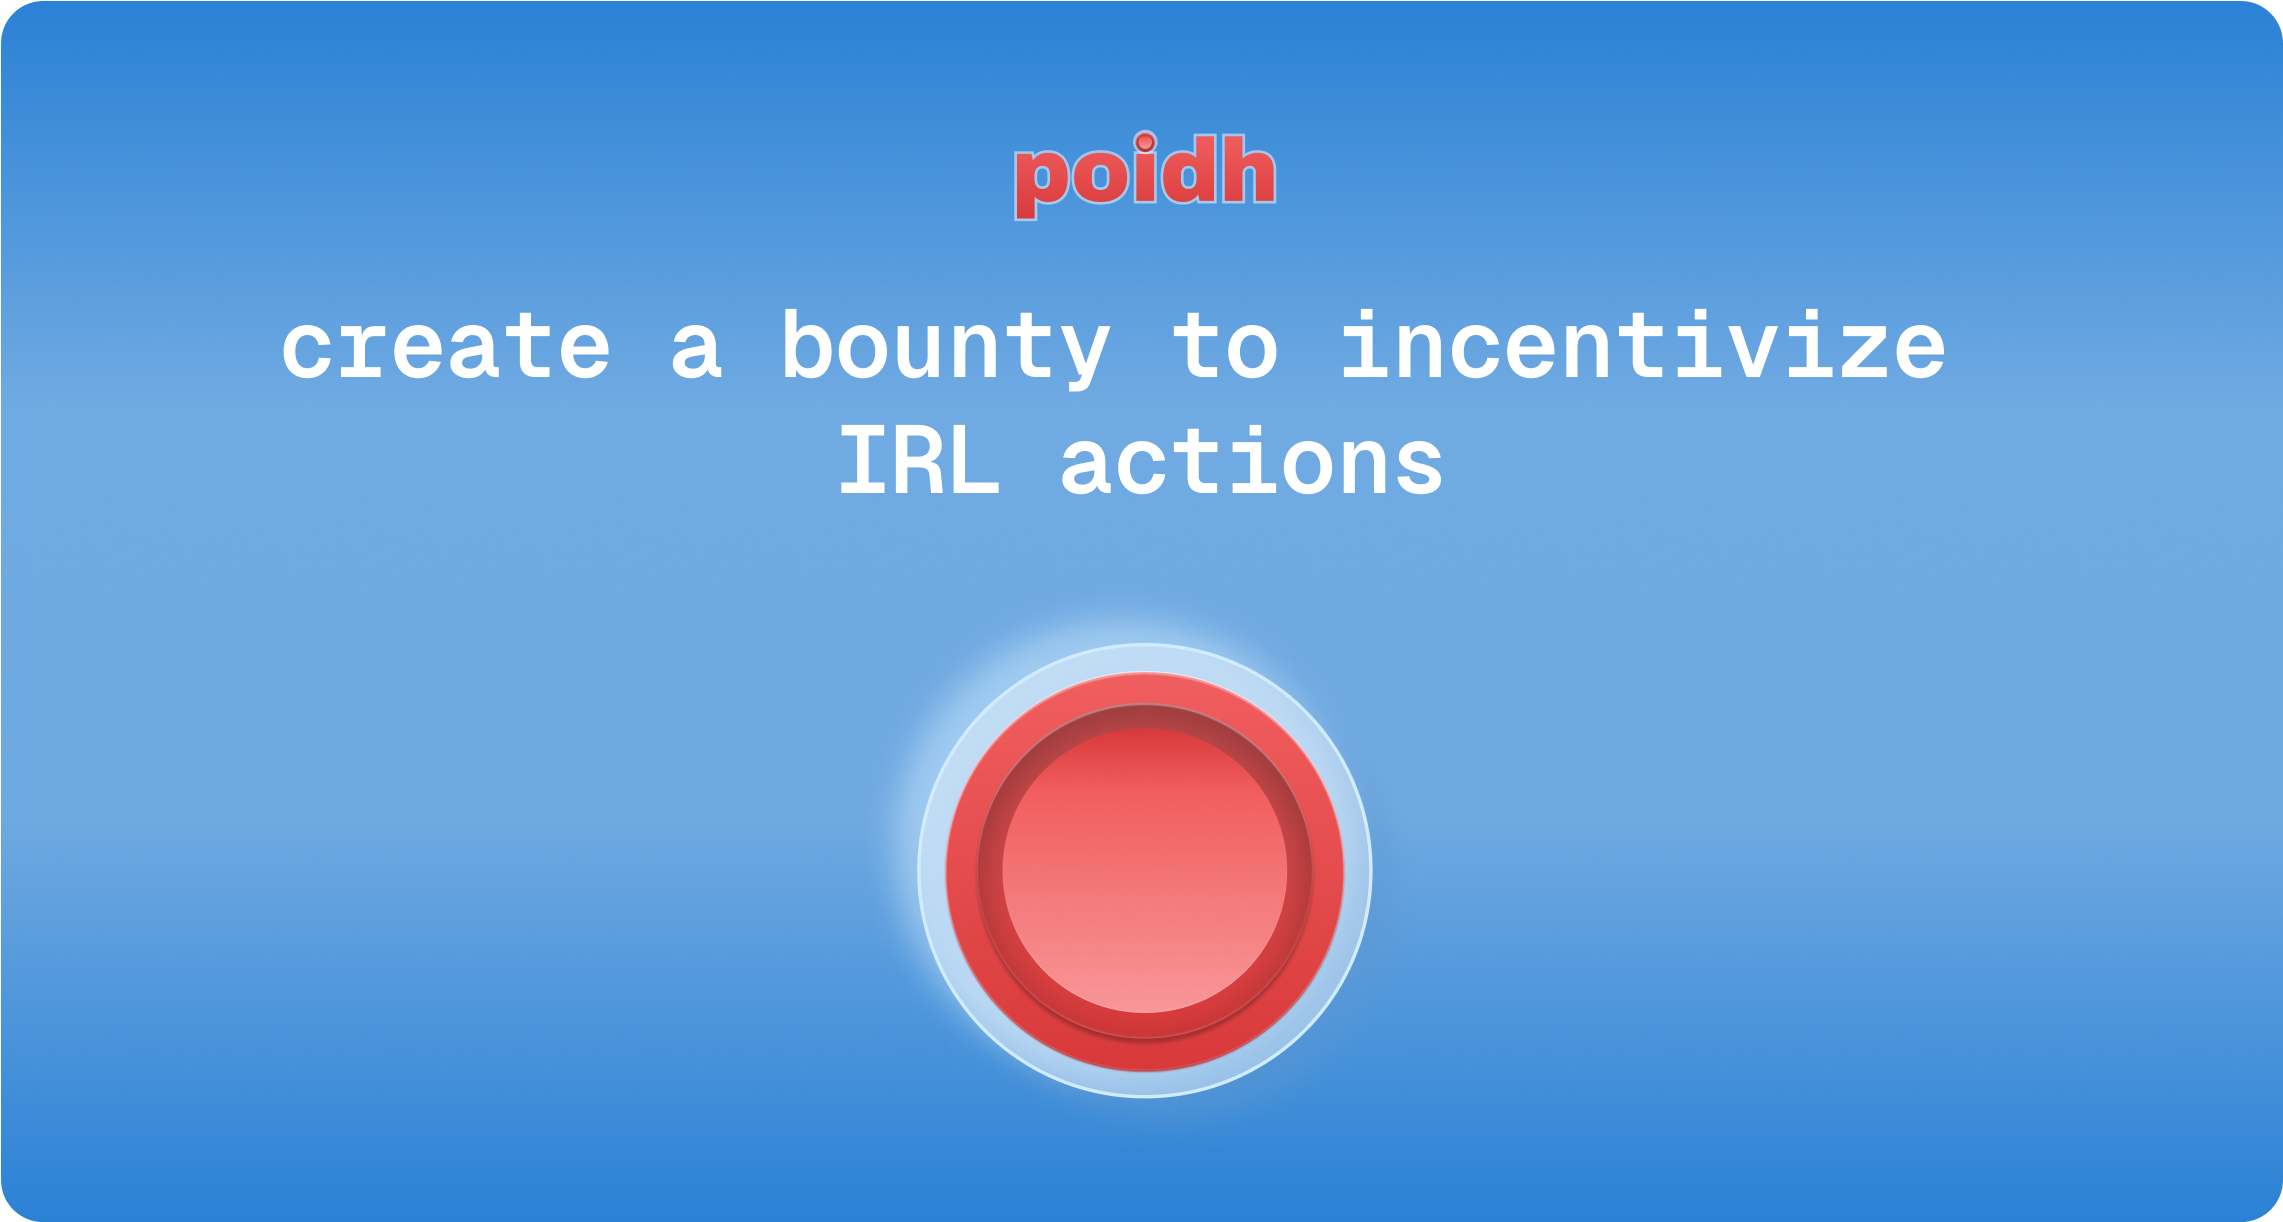
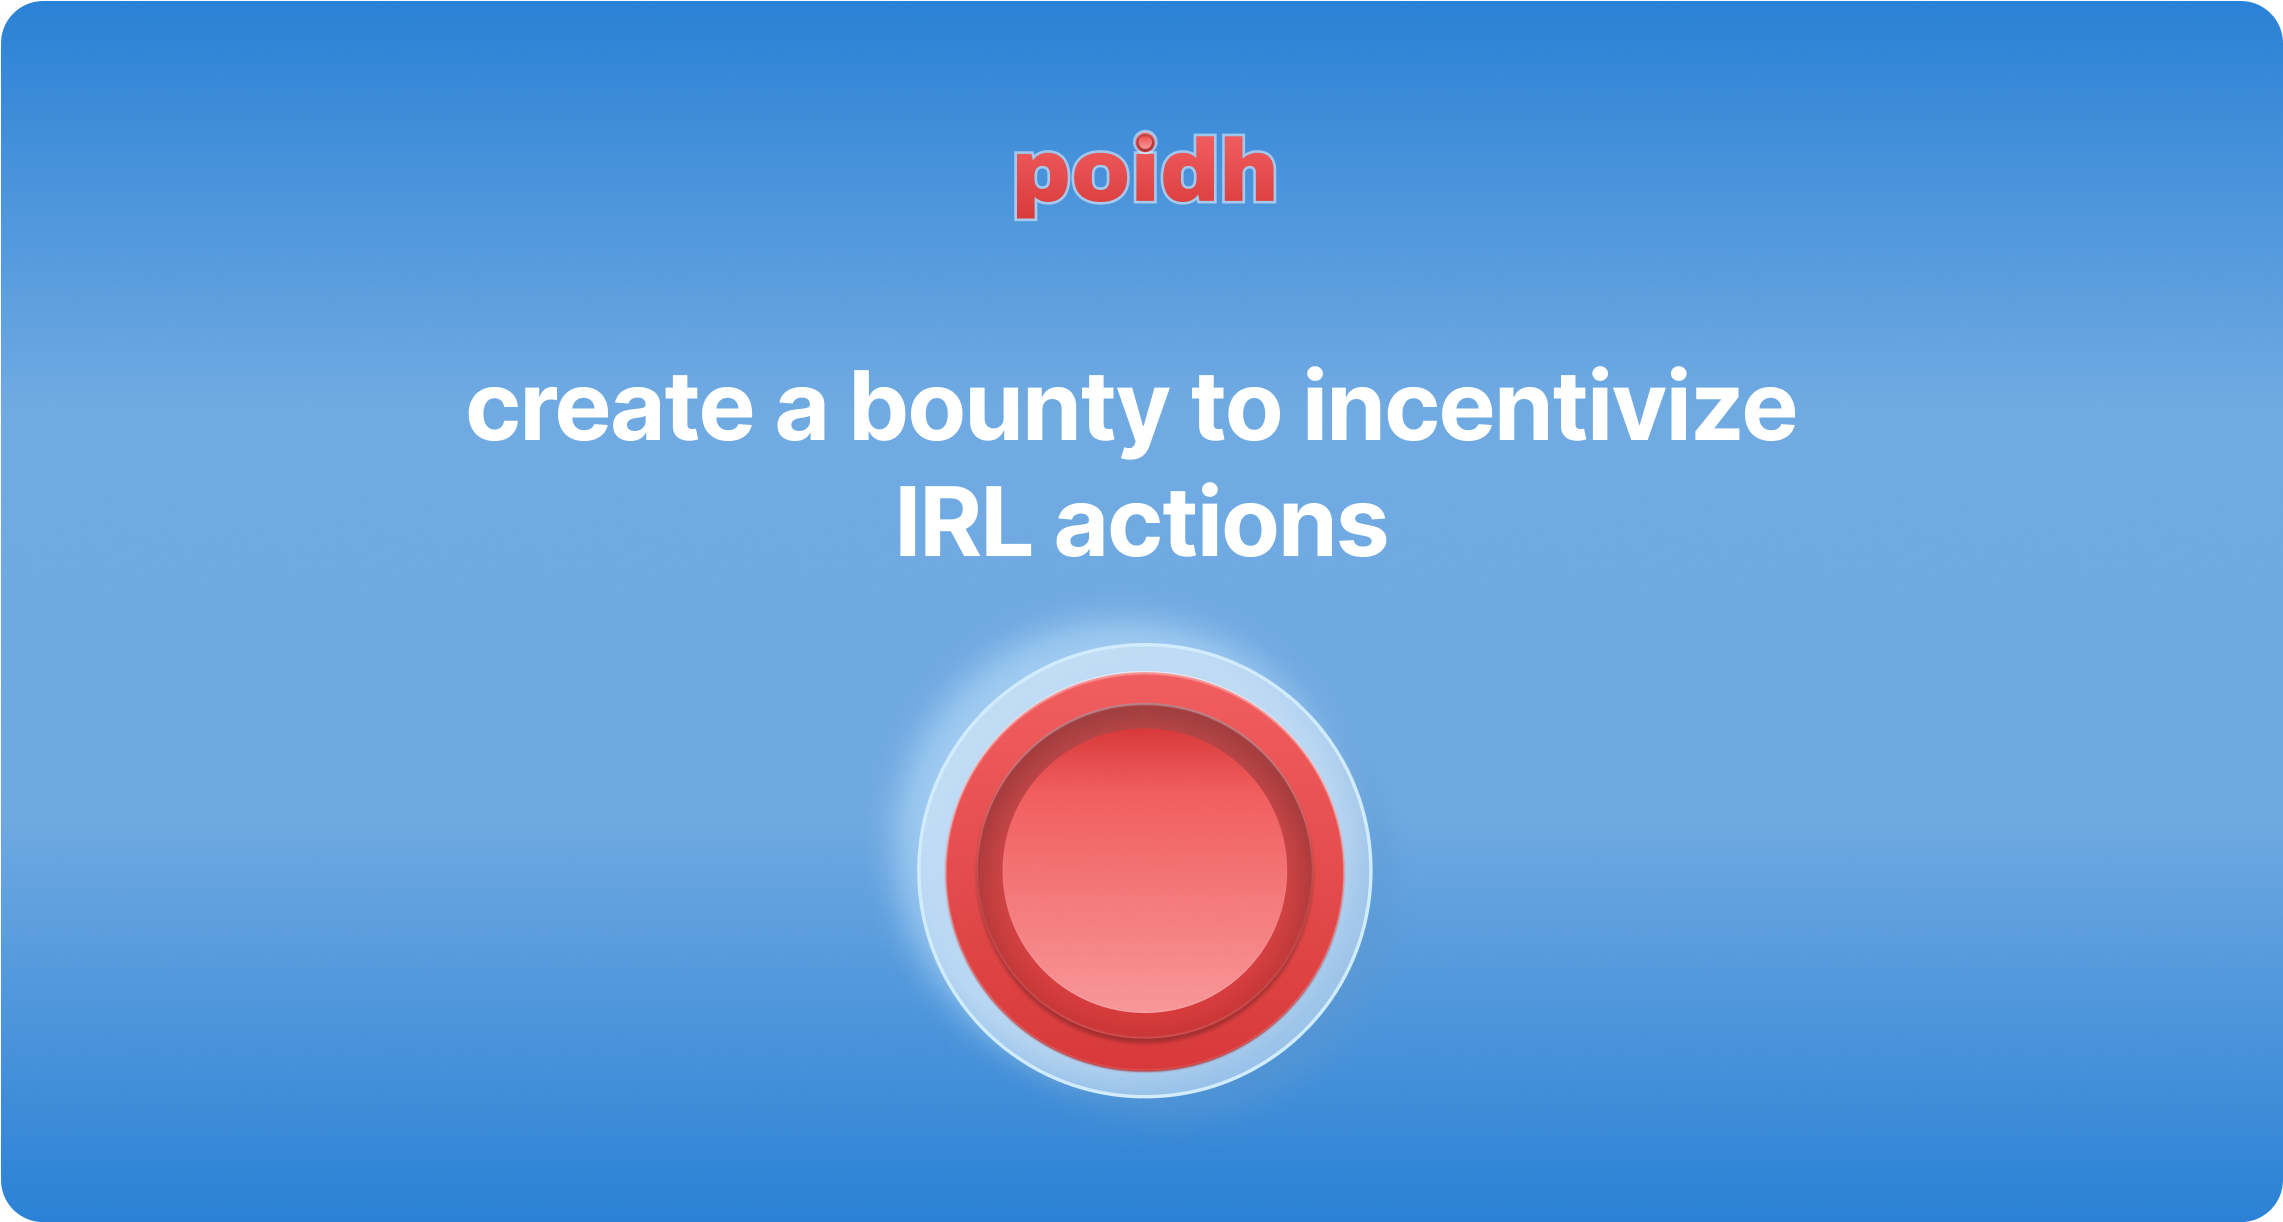
changed font to inter

Changed region(s): [[0.1244, 0.2488, 0.8708, 0.4664]]

diff --git a/app/api/[[...routes]]/route.tsx b/app/api/[[...routes]]/route.tsx
@@ -32,7 +32,7 @@ const app = new Frog<{ State: State }>({
     /* Other default options */
     fonts: [
       {
-        name: 'Jaro',
+        name: 'Inter',
         weight: 400,
         source: 'google',
       },
@@ -47,16 +47,16 @@ const app = new Frog<{ State: State }>({
 const { Heading } = createSystem({
   fonts: {
 
-    jaro: [
+    Inter: [
       {
-        name: 'Jaro',
+        name: 'Inter',
         weight: 400,
         source: 'google',
       },
     ],
     default: [
       {
-        name: 'Jaro',
+        name: 'Inter',
         weight: 400,
         source: 'google',
       },
@@ -67,7 +67,7 @@ const { Heading } = createSystem({
 const simpleMessage = <div
   style={{
     alignItems: 'center',
-    backgroundImage: `url("https://phoidh-frame.vercel.app/bg-poidh.png")`,
+    backgroundImage: `url("https://phoidh-frame.vercel.app//bg-poidh.png")`,
     backgroundSize: '100% 100%',
     display: 'flex',
     flexDirection: 'column',
@@ -97,7 +97,7 @@ const simpleMessage = <div
     backgroundSize: "contain",
     position: "absolute",
     top: 0,
-    backgroundImage: `url("https://phoidh-frame.vercel.app/logo-poidh.png")`,
+    backgroundImage: `url("https://phoidh-frame.vercel.app//logo-poidh.png")`,
   }}
   >
   </div>
@@ -106,7 +106,7 @@ const simpleMessage = <div
 app.frame('/', (c) => {
   return c.res({
     action: '/bountytitle',
-    image: "https://phoidh-frame.vercel.app/screen-1.png",
+    image: "https://phoidh-frame.vercel.app//screen-1.png",
     intents: [
       <Button value="start">Create a Bounty</Button>,
     ],
@@ -120,14 +120,14 @@ app.frame('/bountytitle', (c) => {
     image: (
       <div style={{
         display: "flex", flexDirection: 'column',
-        fontFamily: "Jaro",
+        fontFamily: "Inter",
         justifyContent: "center", alignItems: "center", height: "100%"
       }}>
         {simpleMessage}
         <div
           style={{
             color: 'white',
-            fontFamily: 'Jaro',
+            fontFamily: 'Inter',
             display: 'flex',
             fontWeight: 800,
             fontSize: 60,
@@ -138,7 +138,7 @@ app.frame('/bountytitle', (c) => {
         <div
           style={{
             color: 'white',
-            fontFamily: 'Jaro',
+            fontFamily: 'Inter',
             display: 'flex',
             fontWeight: 400,
             fontSize: 30,
@@ -153,7 +153,7 @@ app.frame('/bountytitle', (c) => {
     imageOptions: {
       fonts: [
         {
-          name: 'Jaro',
+          name: 'Inter',
           source: 'google',
           style: 'normal',
         },
@@ -187,9 +187,9 @@ app.frame('/bountydescription', (c) => {
         <div
           style={{
             color: 'white',
-            fontFamily: 'Jaro',
+            fontFamily: 'Inter',
             display: 'flex',
-            fontWeight: 400,
+            fontWeight: 800,
             fontSize: 60,
           }}
         >
@@ -198,7 +198,7 @@ app.frame('/bountydescription', (c) => {
         <div
           style={{
             color: 'white',
-            fontFamily: 'Jaro',
+            fontFamily: 'Inter',
             display: 'flex',
             fontWeight: 400,
             fontSize: 30,
@@ -238,9 +238,9 @@ app.frame('/bountyreward', (c) => {
         <div
           style={{
             color: 'white',
-            fontFamily: 'Jaro',
+            fontFamily: 'Inter',
             display: 'flex',
-            fontWeight: 400,
+            fontWeight: 800,
             fontSize: 60,
           }}
         >
@@ -249,7 +249,7 @@ app.frame('/bountyreward', (c) => {
         <div
           style={{
             color: 'white',
-            fontFamily: 'Jaro',
+            fontFamily: 'Inter',
             display: 'flex',
             fontWeight: 400,
             fontSize: 30,
@@ -289,9 +289,9 @@ app.frame('/bountytype', (c) => {
         <div
           style={{
             color: 'white',
-            fontFamily: 'Jaro',
+            fontFamily: 'Inter',
             display: 'flex',
-            fontWeight: 400,
+            fontWeight: 800,
             fontSize: 60,
           }}
         >
@@ -300,7 +300,7 @@ app.frame('/bountytype', (c) => {
         <div
           style={{
             color: 'white',
-            fontFamily: 'Jaro',
+            fontFamily: 'Inter',
             display: 'flex',
             fontWeight: 400,
             fontSize: 30,
@@ -313,7 +313,7 @@ app.frame('/bountytype', (c) => {
         <div
           style={{
             color: 'white',
-            fontFamily: 'Jaro',
+            fontFamily: 'Inter',
             display: 'flex',
             fontWeight: 400,
             fontSize: 30,
@@ -350,9 +350,9 @@ app.frame('/wallet', (c) => {
         <div
           style={{
             color: 'white',
-            fontFamily: 'Jaro',
+            fontFamily: 'Inter',
             display: 'flex',
-            fontWeight: 400,
+            fontWeight: 800,
             fontSize: 60,
           }}
         >
@@ -385,9 +385,9 @@ app.frame('/share', (c) => {
         <div
           style={{
             color: 'white',
-            fontFamily: 'Jaro',
+            fontFamily: 'Inter',
             display: 'flex',
-            fontWeight: 400,
+            fontWeight: 800,
             fontSize: 60,
           }}
         >
@@ -396,7 +396,7 @@ app.frame('/share', (c) => {
         <div
           style={{
             color: 'white',
-            fontFamily: 'Jaro',
+            fontFamily: 'Inter',
             display: 'flex',
             fontWeight: 400,
             fontSize: 30,
@@ -409,7 +409,7 @@ app.frame('/share', (c) => {
         <div
           style={{
             color: 'white',
-            fontFamily: 'Jaro',
+            fontFamily: 'Inter',
             display: 'flex',
             fontWeight: 400,
             fontSize: 30,
@@ -423,7 +423,7 @@ app.frame('/share', (c) => {
     ),
     intents: [
       <Button.Link href={`https://warpcast.com/~/compose?text=Hey%2C%20I%20just%20created%20a%20bounty%20on%20poidh%21
-      !&embeds[]=https://phoidh-frame.vercel.app/api//bounty/${c.transactionId}`}>Share</Button.Link>,
+      !&embeds[]=https://phoidh-frame.vercel.app//api//bounty/${c.transactionId}`}>Share</Button.Link>,
       <Button.Link href={`https://explorer.degen.tips/tx/${c.transactionId}`}> Check TxN </Button.Link>,
     ],
   })
@@ -487,9 +487,9 @@ app.frame('/bounty/:txHash', async (c) => {
         <div
           style={{
             color: 'white',
-            fontFamily: 'Jaro',
+            fontFamily: 'Inter',
             display: 'flex',
-            fontWeight: 400,
+            fontWeight: 800,
             fontSize: 60,
           }}
         >
@@ -498,7 +498,7 @@ app.frame('/bounty/:txHash', async (c) => {
         <div
           style={{
             color: 'white',
-            fontFamily: 'Jaro',
+            fontFamily: 'Inter',
             display: 'flex',
             fontWeight: 400,
             fontSize: 30,
@@ -511,7 +511,7 @@ app.frame('/bounty/:txHash', async (c) => {
         <div
           style={{
             color: 'white',
-            fontFamily: 'Jaro',
+            fontFamily: 'Inter',
             display: 'flex',
             fontWeight: 400,
             fontSize: 30,

diff --git a/app/page.tsx b/app/page.tsx
@@ -6,7 +6,7 @@ import styles from './page.module.css'
 
 export async function generateMetadata(): Promise<Metadata> {
   const frameTags = await getFrameMetadata(
-    `${process.env.VERCEL_URL || 'http://localhost:3000'}/api`,
+    `${process.env.VERCEL_URL || 'https://phoidh-frame.vercel.app/'}/api`,
   )
   return {
     other: frameTags,
